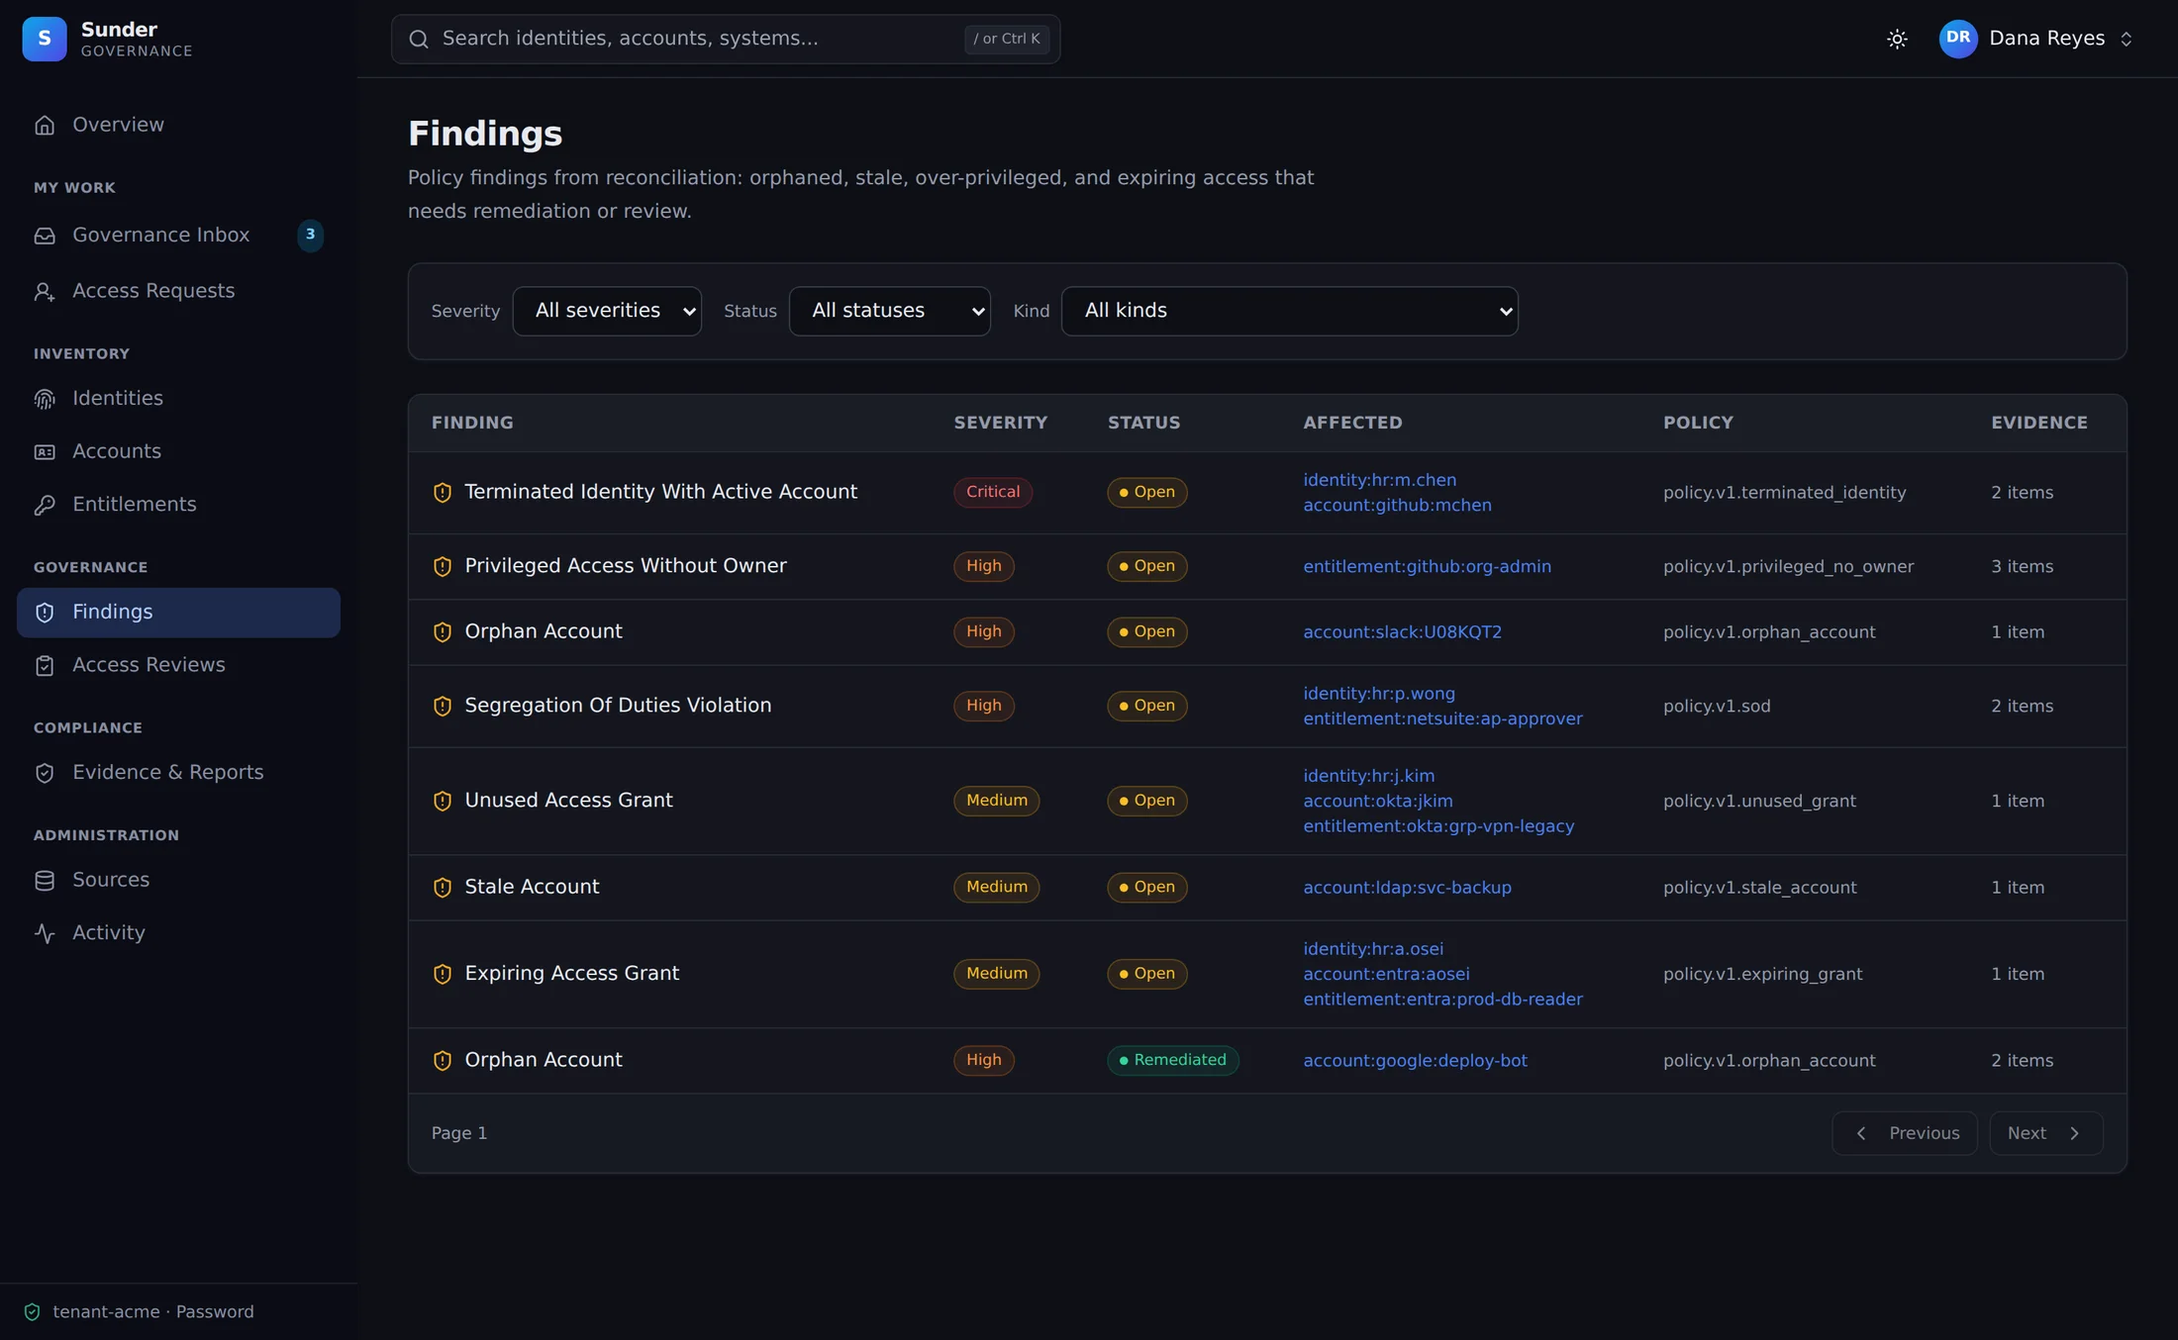
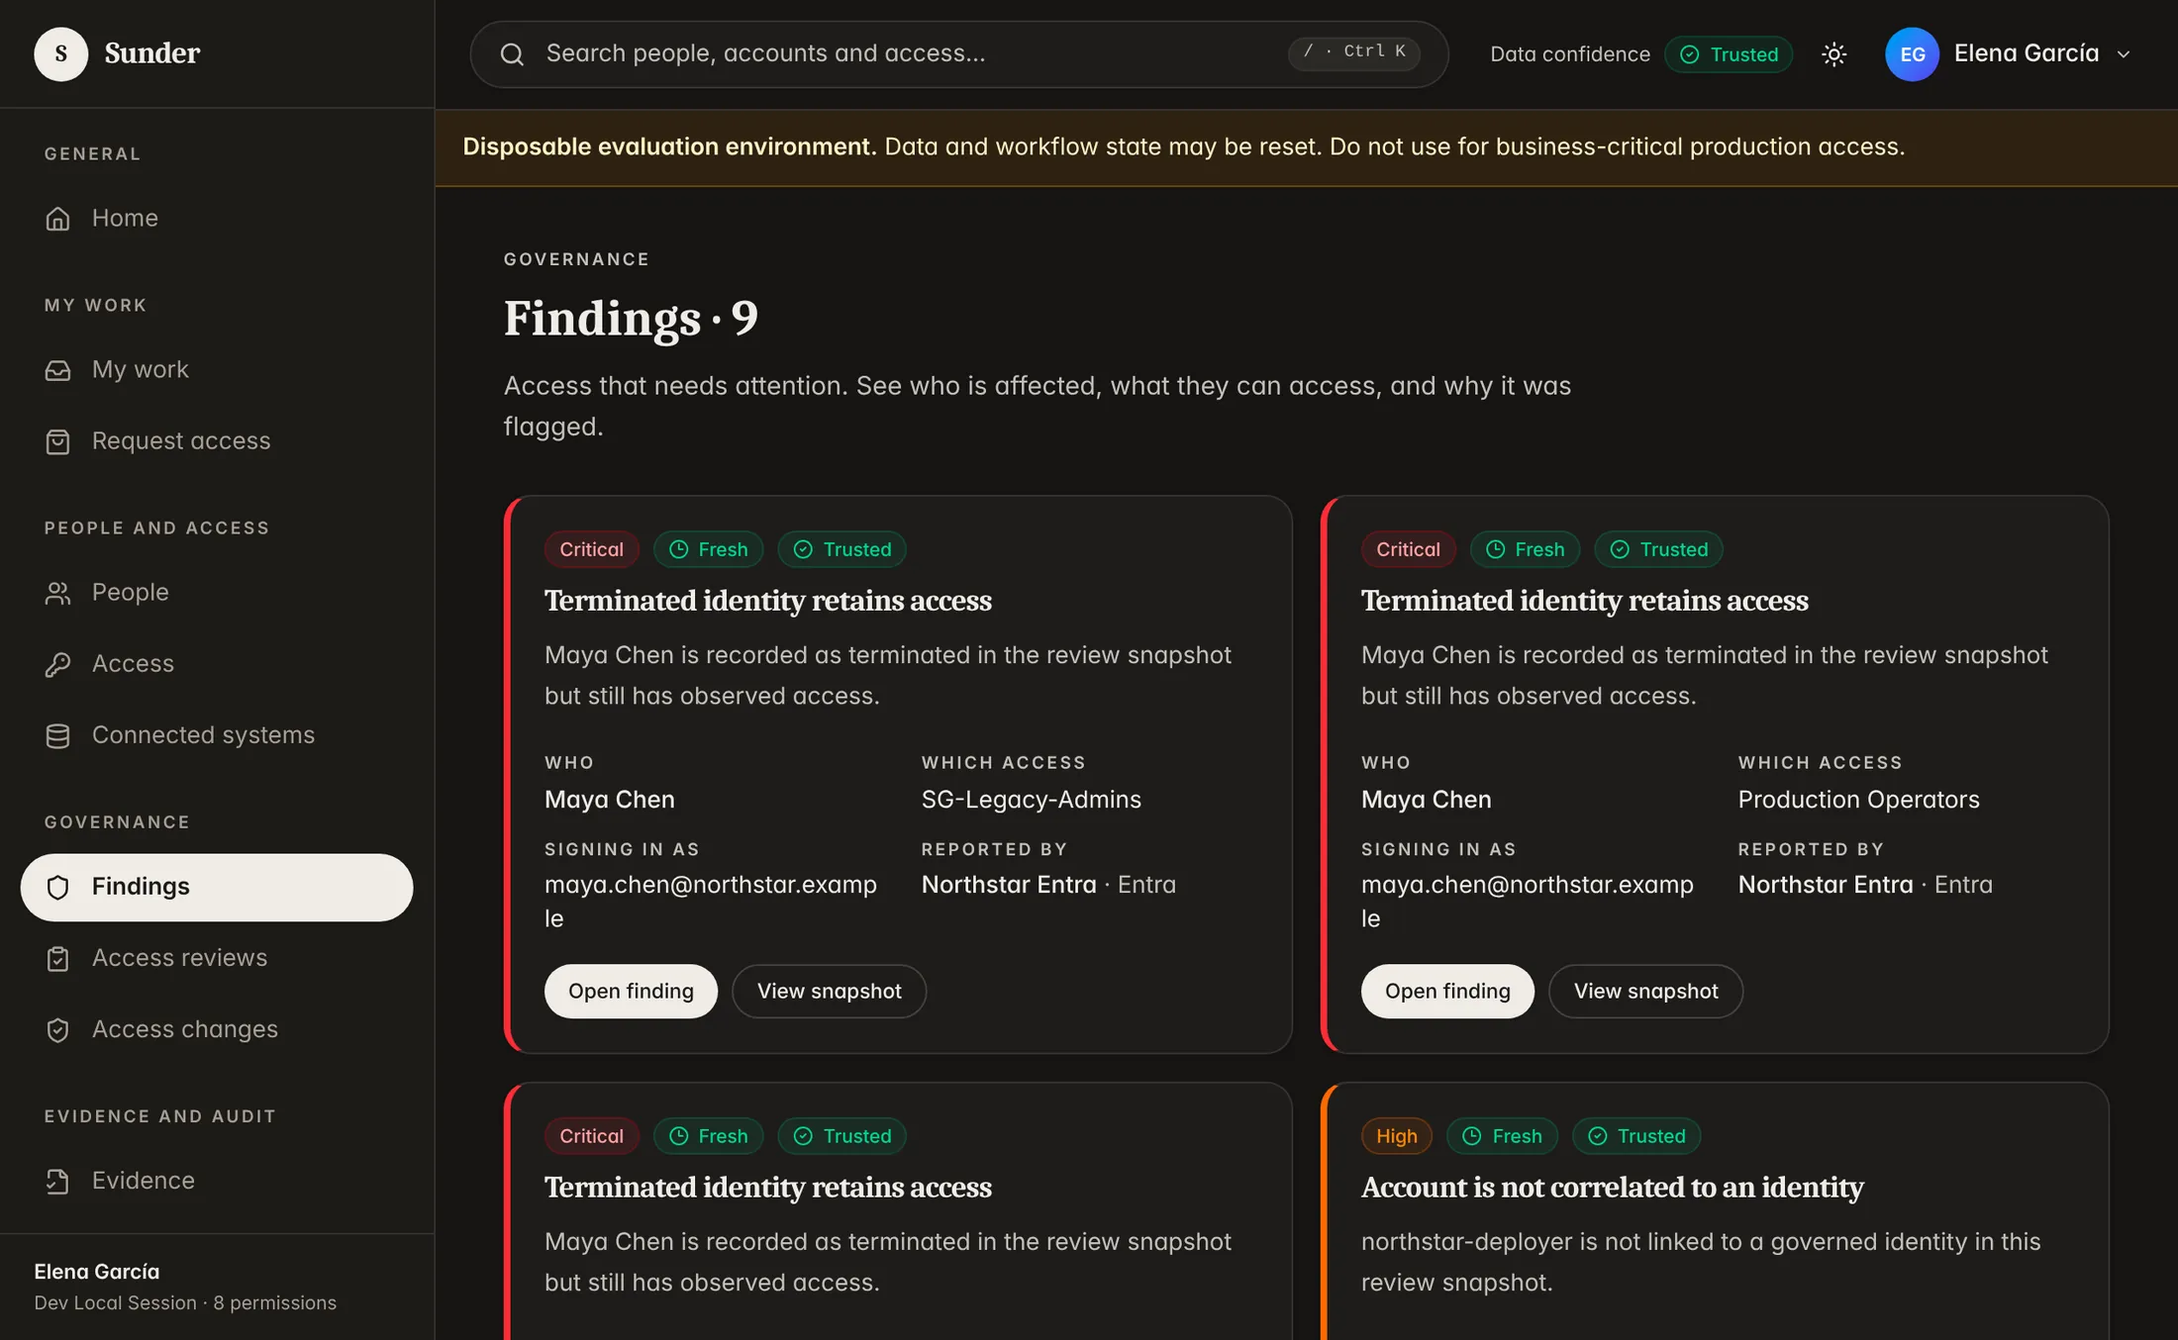
fix: replace stale console screenshots and correct page claims
Recapture Home, Findings and My work from the current Console against a
synthetic Northstar lab, regenerate the OG card without the MCP claim,
show the current campaign evidence shape and real sunderctl usage, and
fix alt text, pilot criteria wording and diagram accessibility.

Claude-Session: https://claude.ai/code/session_01WbRoqKAm4CJnokkBo3KEVe

diff --git a/index.html b/index.html
@@ -65,10 +65,10 @@
       <figure class="browser hero-shot">
         <figcaption class="browser-bar">
           <span class="tdot" aria-hidden="true"></span><span class="tdot" aria-hidden="true"></span><span class="tdot" aria-hidden="true"></span>
-          <span class="browser-title">Sunder console &middot; Overview</span>
+          <span class="browser-title">Sunder console &middot; Home</span>
         </figcaption>
         <img src="assets/console-overview.webp" width="2200" height="1354"
-             alt="Sunder console overview: connected systems, identities, accounts, open findings, governance drift, and per-system sync health">
+             alt="Sunder console Home for reviewer Priya Shah: six access review decisions about leaver Maya Chen assigned to her across Northstar GitHub and Microsoft Entra, and nine serious findings across three connected systems">
       </figure>
     </div>
   </section>
@@ -88,8 +88,8 @@
         the answer lives in a spreadsheet nobody trusts.
       </p>
 
-      <figure class="diagram" role="img" aria-label="Diagram: scattered access data from HR, GitHub, Microsoft Entra, repository config and an ownership spreadsheet becomes one correlated access graph in Sunder, with a leaver who is still in GitHub teams flagged">
-        <svg viewBox="0 0 960 340" xmlns="http://www.w3.org/2000/svg">
+      <figure class="diagram">
+        <svg viewBox="0 0 960 340" xmlns="http://www.w3.org/2000/svg" role="img" aria-label="Diagram: scattered access data from HR, GitHub, Microsoft Entra, repository config and an ownership spreadsheet becomes one correlated access graph in Sunder, with a leaver who is still in GitHub teams flagged">
           <!-- left: scattered systems -->
           <g class="dg-scatter">
             <rect x="28"  y="48"  width="128" height="40" rx="8" transform="rotate(-4 92 68)"/>
@@ -167,7 +167,7 @@
           <span class="browser-title">Sunder console &middot; Findings</span>
         </figcaption>
         <img src="assets/console-findings.webp" width="2200" height="1354" loading="lazy"
-             alt="Sunder findings table: terminated identity with active account (critical), privileged access without owner, orphan accounts, segregation of duties violation, each with severity, status, affected objects, policy, and evidence">
+             alt="Sunder Findings page: critical findings that terminated identity Maya Chen retains Entra access such as Privileged Role Administrator, and a high finding that the GitHub account orphan-prod-bot is not linked to any identity, each showing who, which access, the signing-in account and the reporting system">
       </figure>
     </div>
   </section>
@@ -179,8 +179,8 @@
         <p class="kicker">02 / decide it</p>
         <h2>Reviews people actually complete, and removals you can prove.</h2>
         <p class="section-lede">
-          Scoped access-review campaigns land as assigned tasks in the web
-          Governance Inbox. Every decision records who decided, why, and what
+          Scoped access-review campaigns land as assigned tasks in each
+          reviewer&rsquo;s web inbox, My work. Every decision records who decided, why, and what
           they saw. When a reviewer revokes access, Sunder removes it where it
           can (GitHub team membership today), routes the rest to a person, and
           then checks that the access is really gone.
@@ -190,10 +190,10 @@
         <figure class="browser">
           <figcaption class="browser-bar">
             <span class="tdot" aria-hidden="true"></span><span class="tdot" aria-hidden="true"></span><span class="tdot" aria-hidden="true"></span>
-            <span class="browser-title">Sunder console &middot; Governance Inbox</span>
+            <span class="browser-title">Sunder console &middot; My work</span>
           </figcaption>
           <img src="assets/console-inbox.webp" width="2200" height="1354" loading="lazy"
-               alt="Sunder Governance Inbox: assigned access review items and an access request approval with due dates, Slack/Teams delivery states, and approve/reject/review actions">
+               alt="Sunder My work inbox for reviewer Priya Shah: six access review decisions waiting on her for leaver Maya Chen, including the GitHub production-deployers team and Entra Privileged Role Administrator, each with a Review action">
         </figure>
         <figure class="chat-mock" aria-label="Illustrative preview of roadmap Slack delivery">
           <div class="chat-head">
@@ -212,7 +212,7 @@
             <span class="chat-btn">Revoke</span>
             <span class="chat-btn">Open in Sunder</span>
           </div>
-          <figcaption>Illustrative preview. Slack delivery and agent owner reviews are on the roadmap; today, review tasks land in the web Governance Inbox.</figcaption>
+          <figcaption>Illustrative preview. Slack delivery and agent owner reviews are on the roadmap; today, review tasks land in the web inbox, My work.</figcaption>
         </figure>
       </div>
     </div>
@@ -234,22 +234,25 @@
       <figure class="terminal evidence-panel">
         <figcaption class="terminal-bar">
           <span class="tdot" aria-hidden="true"></span><span class="tdot" aria-hidden="true"></span><span class="tdot" aria-hidden="true"></span>
-          <span class="terminal-title">sunder-governance-evidence.json</span>
+          <span class="terminal-title">campaign.json &middot; sealed campaign evidence</span>
         </figcaption>
         <pre><code>{
-  <span class="j-k">"review_campaign"</span>: {
-    <span class="j-k">"id"</span>: <span class="j-s">"campaign-governance-slice-q2"</span>,
-    <span class="j-k">"decision"</span>: <span class="j-s">"certify"</span>,
-    <span class="j-k">"decided_item_id"</span>: <span class="j-s">"campaign-governance-slice-q2:grant:grant-rest-alice-engineering"</span>,
-    <span class="j-k">"evidence_id"</span>: <span class="j-s">"&hellip;:decision:evidence"</span>
-  },
+  <span class="j-k">"encoding_version"</span>: <span class="j-n">1</span>,
+  <span class="j-k">"campaign_id"</span>: <span class="j-s">"6f1c2a90-&hellip;"</span>,
+  <span class="j-k">"baseline_id"</span>: <span class="j-s">"11305c12-&hellip;"</span>,
+  <span class="j-k">"findings"</span>: [
+    [<span class="j-s">"f1ba8ab5-&hellip;"</span>, <span class="j-s">"11305c12-&hellip;"</span>, <span class="j-s">"terminated_identity_retained_access"</span>,
+     <span class="j-s">"critical"</span>, <span class="j-s">"2026-10-01 09:02:11+00"</span>]
+  ],
+  <span class="j-k">"decisions"</span>: [
+    [<span class="j-s">"d41e07c3-&hellip;"</span>, <span class="j-s">"11305c12-&hellip;"</span>, <span class="j-s">"revoke"</span>,
+     <span class="j-s">"Left 30 Sep; production access no longer needed"</span>,
+     <span class="j-s">"7c9e1b44-&hellip;"</span>, <span class="j-s">"fresh"</span>, <span class="j-s">"2026-10-02 09:14:03+00"</span>]
+  ],
   &hellip;
-  <span class="j-k">"reconciliation_run"</span>: {
-    <span class="j-k">"id"</span>: <span class="j-s">"run-governance-slice-001"</span>, <span class="j-k">"status"</span>: <span class="j-s">"succeeded"</span>,
-    <span class="j-k">"diff_summary"</span>: { <span class="j-k">"created"</span>: <span class="j-n">16</span>, <span class="j-k">"unresolved"</span>: <span class="j-n">1</span> }
-  }
+  <span class="j-k">"readable_context"</span>: { <span class="j-k">"version"</span>: <span class="j-n">1</span>, <span class="j-k">"selected"</span>: <span class="j-n">6</span>, <span class="j-k">"decided"</span>: <span class="j-n">6</span>, <span class="j-k">"pending"</span>: <span class="j-n">0</span>, &hellip; }
 }</code></pre>
-        <p class="terminal-note">Excerpt from a real evidence bundle produced by Sunder&rsquo;s deterministic pilot run: the review decision and the reconciliation that backs it, in one export.</p>
+        <p class="terminal-note">Illustrative excerpt in the current evidence format, with synthetic values. The sealed package pairs this machine-readable record with CSVs, an executive report, a manifest of checksums and an offline HTML summary.</p>
       </figure>
     </div>
   </section>
@@ -269,31 +272,35 @@
         </p>
         <dl class="iface-list">
           <div><dt>REST API</dt><dd><strong>Available.</strong> Governance operations as API calls, with an audit trail. Your agents use the same API as the console.</dd></div>
-          <div><dt>Operator CLI</dt><dd><strong>Available.</strong> Scriptable <code>sunder</code> commands over the same API.</dd></div>
-          <div><dt>Web inbox</dt><dd><strong>Available.</strong> The Governance Inbox for reviews and decisions. Slack delivery is coming.</dd></div>
+          <div><dt>CLI</dt><dd><strong>Available.</strong> <code>sunderctl</code> calls any API operation by its operation ID and checks your credential first.</dd></div>
+          <div><dt>Web inbox</dt><dd><strong>Available.</strong> My work, the web inbox for reviews and decisions. Slack delivery is coming.</dd></div>
           <div><dt>MCP server</dt><dd><strong>Coming.</strong> Agents ask governed questions and prepare requests for a person to decide.</dd></div>
         </dl>
       </div>
-      <figure class="terminal" aria-label="Illustrative Sunder CLI session">
+      <figure class="terminal" aria-label="sunderctl session against the synthetic Northstar lab">
         <figcaption class="terminal-bar">
           <span class="tdot" aria-hidden="true"></span><span class="tdot" aria-hidden="true"></span><span class="tdot" aria-hidden="true"></span>
-          <span class="terminal-title">sunder &middot; operator CLI</span>
+          <span class="terminal-title">sunderctl &middot; REST API client</span>
         </figcaption>
-        <pre><code><span class="t-prompt">$</span> sunder sync --connector github --system github-prod
-<span class="t-ok">&#10003;</span> sync complete &middot; 412 accounts &middot; 1,847 entitlements
+        <pre><code><span class="t-prompt">$</span> sunderctl can createCanonicalSystemCollectionRun
+<span class="t-ok">allowed:</span> createCanonicalSystemCollectionRun
 
-<span class="t-prompt">$</span> sunder findings --severity high
-<span class="t-sev-orphan">LEAVER</span>   github:mchen &middot; left 30 Sep, still in 2 teams
-<span class="t-sev-priv">ORPHAN</span>   github:build-bot-old &middot; no matching identity
-<span class="t-sev-unres">ORPHAN</span>   entra:sp-reporting &middot; no matching identity
+<span class="t-prompt">$</span> sunderctl call createCanonicalSystemCollectionRun \
+    --path system_id=bcabf7b5-&hellip; \
+    --idempotency-key github-nightly-20261008 \
+    --data '{"collections":[]}' | jq -c '{run_id, state}'
+{"run_id":"524ce70c-&hellip;","state":"queued"}
 
-<span class="t-prompt">$</span> sunder review-generate --name "Q3 GitHub admin review" \
-    --system github-prod
-<span class="t-ok">&#10003;</span> campaign created &middot; 23 items &middot; 4 reviewers assigned
+<span class="t-prompt">$</span> sunderctl call listCanonicalFindings --query severity=critical \
+    | jq -r '.items[] | [.severity, .subject.display_name] | @tsv'
+<span class="t-sev-orphan">critical</span>  Maya Chen
+<span class="t-sev-orphan">critical</span>  Maya Chen
+&hellip;
 
-<span class="t-prompt">$</span> sunder export-evidence --campaign q3-github-admin
-<span class="t-ok">&#10003;</span> evidence bundle &rarr; decisions, rationale, audit trail</code></pre>
-        <p class="terminal-note">Illustrative session. The CLI uses the same REST API as the web console and your agents.</p>
+<span class="t-prompt">$</span> sunderctl can decideCanonicalReviewItem
+<span class="t-sev-priv">denied:</span> decideCanonicalReviewItem
+  - canonical Human actor identity required</code></pre>
+        <p class="terminal-note">Real session against Sunder&rsquo;s synthetic Northstar lab, with IDs shortened and output trimmed. Tokens can gather and prepare; review decisions require a person.</p>
       </figure>
     </div>
 
@@ -356,7 +363,7 @@
         </li>
         <li>
           <span class="tl-when">Weeks 2&ndash;4</span>
-          <p>Leaver and orphaned-account findings triaged, a scoped review campaign, decisions collected in the Governance Inbox.</p>
+          <p>Leaver and orphaned-account findings triaged, a scoped review campaign, decisions collected in the web inbox.</p>
         </li>
         <li>
           <span class="tl-when">Weeks 5&ndash;8</span>
@@ -396,13 +403,13 @@
         </div>
       </div>
 
-      <div class="stat-strip" aria-label="Pilot success criteria">
+      <div class="stat-strip" aria-label="Target pilot success criteria">
         <div class="stat"><span class="stat-num">&lt;7 days</span><span class="stat-label">to first normalized graph</span></div>
         <div class="stat"><span class="stat-num">&ge;80%</span><span class="stat-label">account correlation coverage</span></div>
         <div class="stat"><span class="stat-num">&ge;90%</span><span class="stat-label">review decisions completed</span></div>
         <div class="stat"><span class="stat-num">&ge;30%</span><span class="stat-label">less spreadsheet/screenshot work</span></div>
       </div>
-      <p class="stat-note">The success criteria we sign up for in every pilot, measured against your data.</p>
+      <p class="stat-note">Target success criteria, agreed per pilot, measured against your data.</p>
 
       <aside class="founder-note">
         <p>
@@ -472,7 +479,7 @@
 <footer class="footer">
   <div class="container footer-inner">
     <span class="wordmark wordmark-sm">sunder<span class="cursor" aria-hidden="true"></span></span>
-    <p>&copy; 2026 Sunder. Proprietary software; source access for customers by written agreement. Console screenshots show fixture data.</p>
+    <p>&copy; 2026 Sunder. Proprietary software; source access for customers by written agreement. Console screenshots show synthetic fixture data.</p>
     <a href="mailto:hrazzell@gmail.com">Contact</a>
   </div>
 </footer>

diff --git a/README.md b/README.md
@@ -18,15 +18,25 @@ nothing to break.
   today" once it ships; everything else goes in the "On the roadmap" group.
 - The site deliberately targets design-partner recruitment, not broad launch,
   per the roadmap's explicit not-now list.
-- The console screenshots in `assets/` are the real `sunder/apps/web` console
-  (dark theme) rendered with representative fixture data via mocked API
-  responses; the footer discloses this. Regenerate after major console UI
-  changes by re-running a similar Playwright harness against `npm run dev`.
-- The evidence JSON in the "prove it" section is excerpted from a real bundle
-  produced by `sunder/scripts/pilot-happy-path.sh`.
-- The CLI session and the Slack approval card are illustrative and labeled as
-  such in their captions.
-- Pilot stat-strip numbers are the success-criteria targets from the
+- The console screenshots in `assets/` (`console-overview.webp`,
+  `console-findings.webp`, `console-inbox.webp`) are real captures of the
+  current `sunder/apps/web` Console (dark theme, 1280x788 at 2x, resized to
+  2200px wide), running against a local `sunder-api` on PostgreSQL seeded
+  through the API with the synthetic Northstar fixtures (HR import, the mock
+  GitHub and Entra providers, a leaver, and one access review). Home and My
+  work are shown as reviewer Priya Shah, Findings as administrator Elena
+  García. The footer discloses that they show fixture data. Regenerate after
+  major Console UI changes the same way.
+- The evidence JSON in the "prove it" section is an illustrative excerpt in
+  the current sealed campaign evidence format (`campaign.json`, see
+  `sunder/src/campaign_evidence_rendition.rs`) with synthetic values, and is
+  labelled as such.
+- The `sunderctl` session is a real run of `sunder/scripts/sunderctl` against
+  the same synthetic Northstar lab, with IDs shortened and output trimmed.
+- The Slack approval card is illustrative and labelled as roadmap.
+- `og-image.png` (1200x630) is rendered from a simple HTML card with
+  Playwright using the page headline and the `style.css` colours.
+- Pilot stat-strip numbers are target success criteria, agreed per pilot, from the
   design-partner launch assets — keep them in sync with that doc.
 
 ## Local preview
